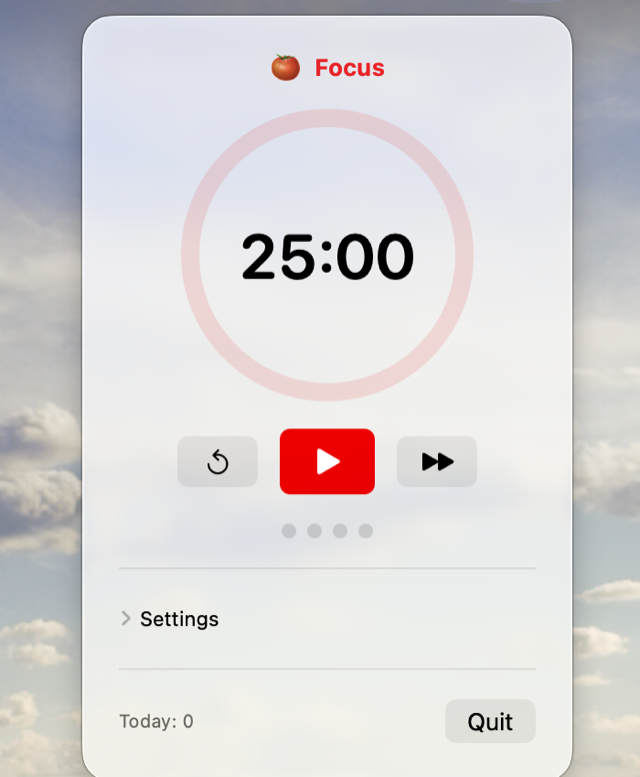
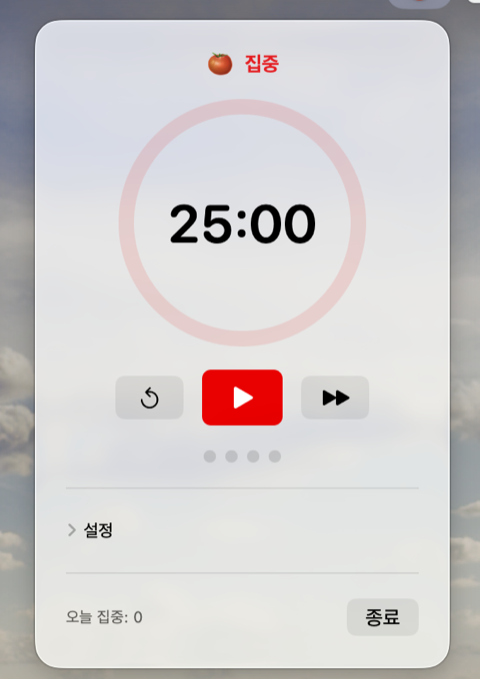
docs: fix swapped EN/KO panel screenshots, nicer crop, bump docs to v0.1.3

diff --git a/README.ko.md b/README.ko.md
@@ -8,7 +8,7 @@
   <img src="assets/peek-ko.gif" width="500" alt="메뉴바에서 튀어나와 커서를 따라가는 감시 캐릭터">
 </p>
 
-> 상태: 초기 릴리즈 (v0.1.1).
+> 상태: 초기 릴리즈 (v0.1.3).
 
 ## 기능
 
@@ -90,10 +90,11 @@ Scripts/
 - [x] 타이머 코어 + 메뉴바 UI
 - [x] 감시하는 눈 체크인 캐릭터 (메뉴바 peek, 커서 추적, 말풍선, 무작위 타이밍)
 - [x] 전체화면 휴식 오버레이 (자동 시작 + 재개 프롬프트)
-- [x] 네이티브 알림 + 사운드, 로그인 시 자동 시작, 다국어, 앱 아이콘
-- [x] GitHub 릴리즈 + Homebrew tap (v0.1.1)
+- [x] 네이티브 알림 + 완료 사운드, 로그인 시 자동 시작, 다국어, 앱 아이콘
+- [x] 시간 키패드 입력, 기본값 초기화, 인앱 업데이트 확인
+- [x] GitHub 릴리즈 + Homebrew tap (ad-hoc 서명 빌드, v0.1.3)
 - [ ] `homebrew/cask` 본진 제출
-- [ ] 코드 서명 / 공증
+- [ ] 코드 서명 / 공증 (Developer ID)
 
 ## 라이선스
 

diff --git a/README.md b/README.md
@@ -8,7 +8,7 @@ A macOS menu bar Pomodoro timer with an attitude. During a focus session, a pair
   <img src="assets/peek-en.gif" width="500" alt="Watching eyes peeking out of the menu bar and following the cursor">
 </p>
 
-> Status: early release (v0.1.1).
+> Status: early release (v0.1.3).
 
 ## Features
 
@@ -90,10 +90,11 @@ Dev tips: `CHECKIN_PREVIEW=1 swift run` shows the character immediately; `BREAK_
 - [x] Timer core + menu bar UI
 - [x] Watching-eyes check-in character (menu bar peek, cursor tracking, speech bubble, randomized timing)
 - [x] Full-screen break overlay (auto-start + resume prompt)
-- [x] Native notifications + sound, launch at login, bilingual, app icon
-- [x] GitHub release + Homebrew tap (v0.1.1)
+- [x] Native notifications + completion sound, launch at login, bilingual, app icon
+- [x] Keypad time entry, reset-to-defaults, in-app update check
+- [x] GitHub release + Homebrew tap with ad-hoc signed builds (v0.1.3)
 - [ ] Submit to `homebrew/cask`
-- [ ] Code signing / notarization
+- [ ] Code signing / notarization (Developer ID)
 
 ## License
 